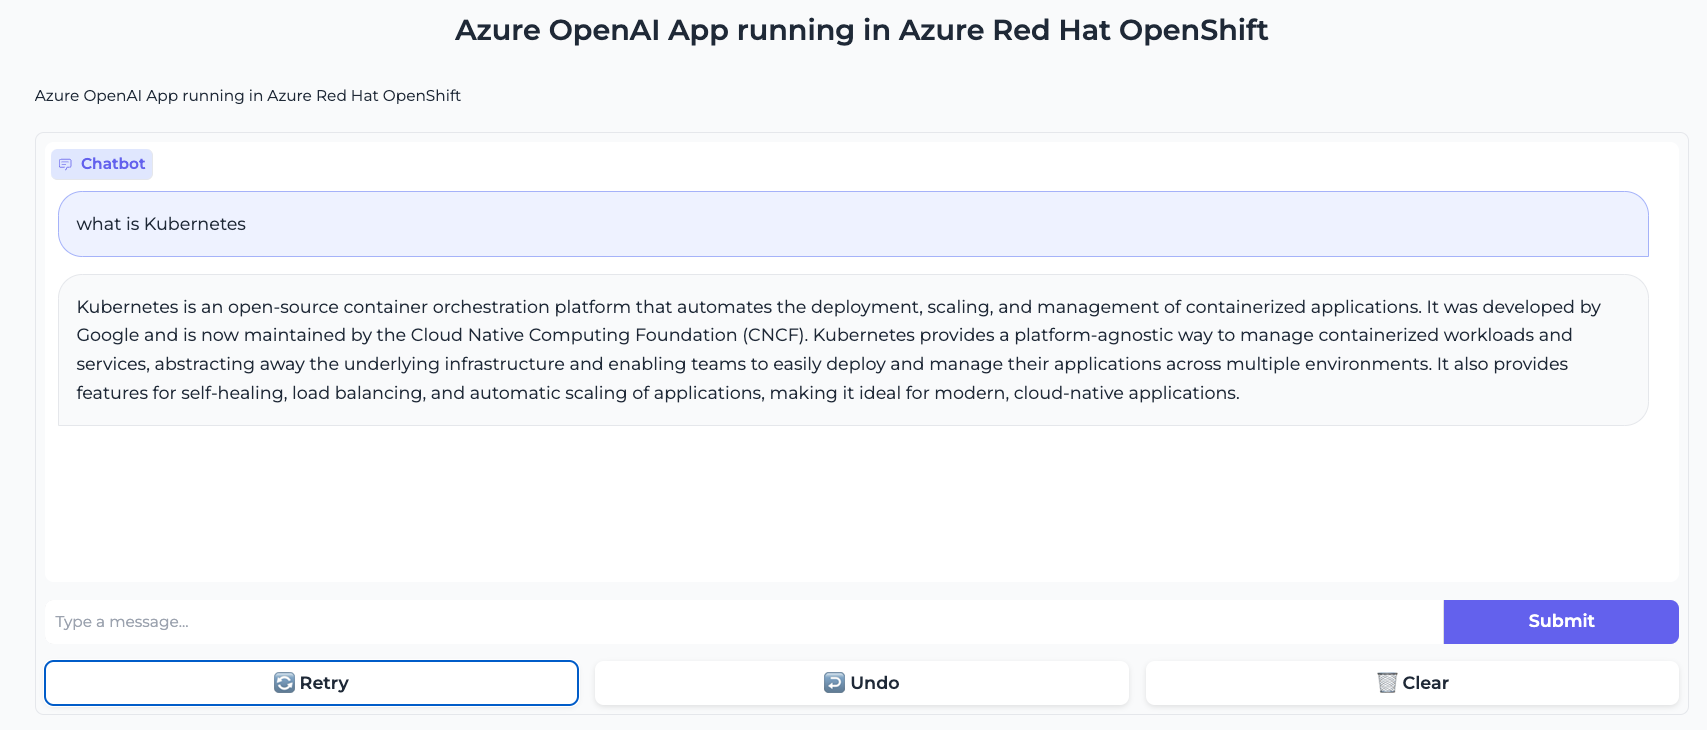
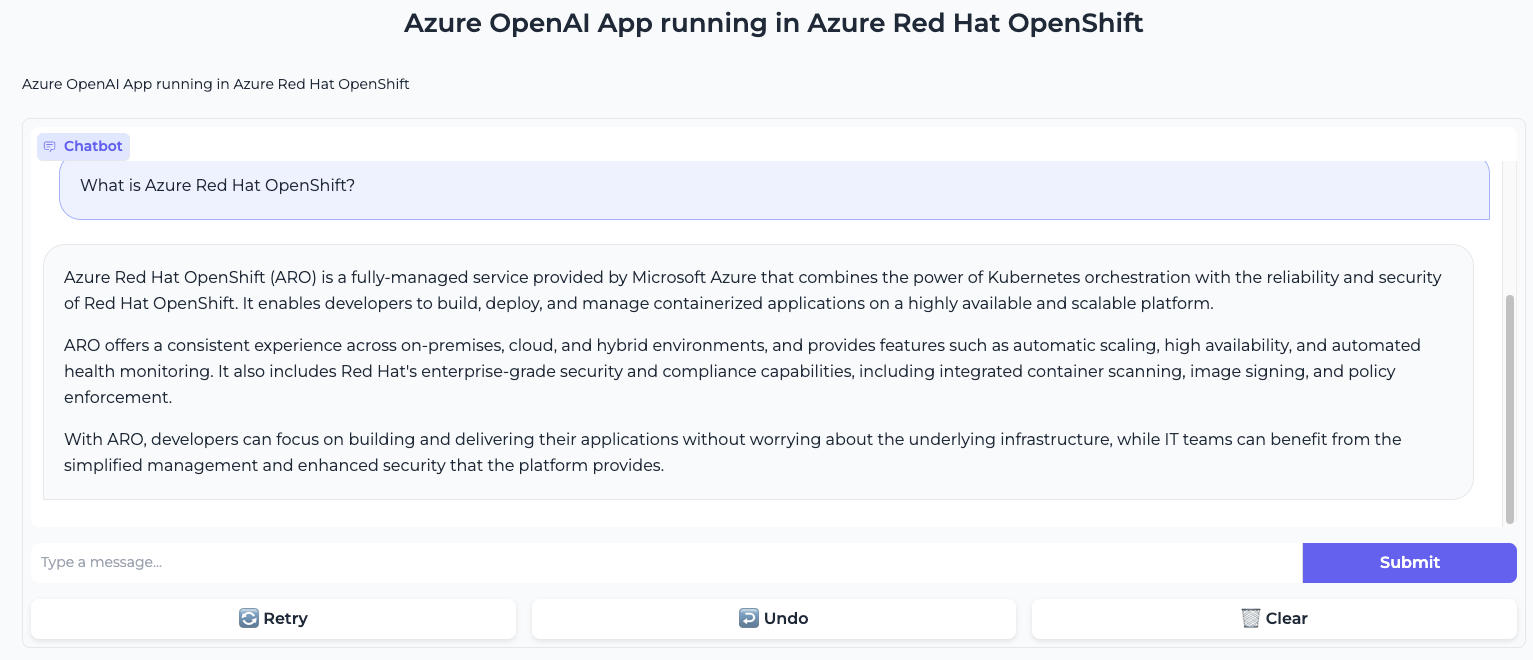
update

diff --git a/README.md b/README.md
@@ -4,35 +4,38 @@ Repository for Deploy A Gradio App with Azure OpenAI as a backend LLM within Azu
 
 ![Azure OpenAI App within ARO Cluster](./assets/aro-azureopenai.png)
 
+![Azure OpenAI App within ARO Cluster - 2](./assets/aro-azureopenai-2.png)
+
+## Deploy FrontEnd App that uses Azure OpenAI
+
+```md
+kubectl apply -k manifests/overlays/ocp
+```
+
+NOTE: Use ```kubectl apply -k manifests/overlays/k8s``` if you want to deploy it in Vanilla K8s
+
 ## Add Azure OpenAI credentials into Kubernetes secrets
 
 * First, set your environment variables with the plain text values in your terminal:
 
 ```md
-export api_base="https://MY_FANCY_URL.openai.azure.com/"
-export api_key="your-api-key"
-export namespace="aro-azureopenai"
-```
-
-* create a Secret YAML file with base64-encoded values using echo and base64:
-
-```md
-echo -n "$BASE_URL" | base64
-echo -n "$API_KEY" | base64
+export OPENAI_API_BASE="https://MY_FANCY_URL.openai.azure.com/"
+export OPENAI_API_KEY="your-api-key"
+export NAMESPACE="aro-azureopenai"
 ```
 
 * Deploy the secret in the namespace
 
 ```md
-cat <<EOF | kubectl apply -n $namespace -f -
+cat <<EOF | kubectl apply -n $NAMESPACE -f -
 apiVersion: v1
 kind: Secret
 metadata:
   name: azure-openai
 type: Opaque
 data:
-  OPENAI_API_BASE: $(echo -n "$api_base" | base64)
-  OPENAI_API_KEY: $(echo -n "$api_key" | base64)
+  OPENAI_API_BASE: $(echo -n "$OPENAI_API_BASE" | base64)
+  OPENAI_API_KEY: $(echo -n "$OPENAI_API_KEY" | base64)
 EOF
 ```
 
